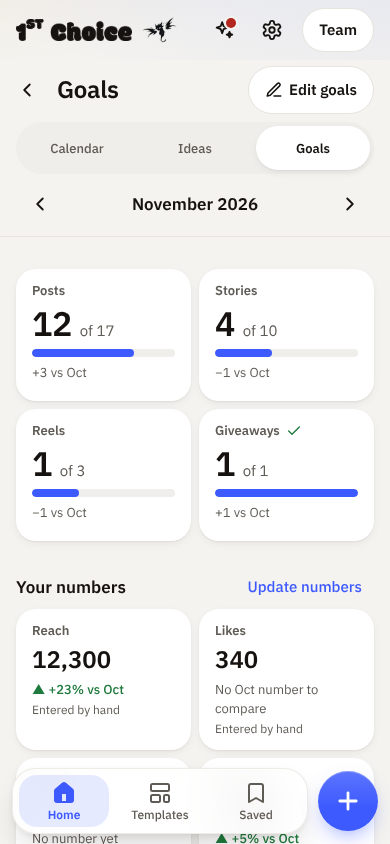
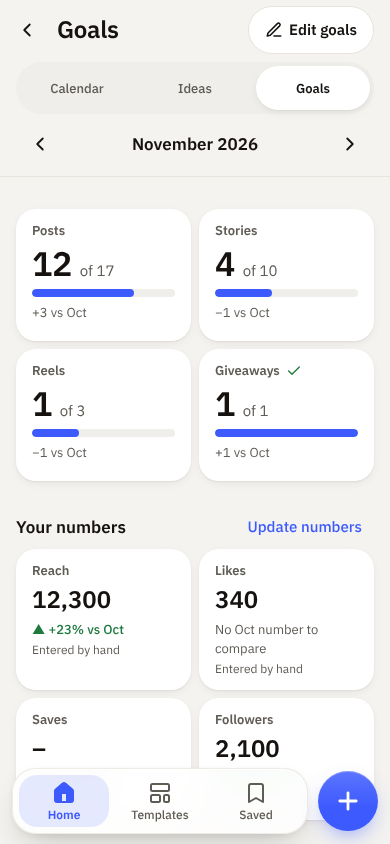
Studio 2.5.1: no flicker (Home calendar row, Plan pages redraw only on change), Ideas/Goals/+Idea fit one row, Plan tabs stay fixed (fade only, top bar hidden on all three), phone Back asks Update on saved designs, Create Save sheet slides up
Claude-Session: https://claude.ai/code/session_01Y65H7WvsiftBMGVkA7A4Ec

diff --git a/assets/studio.js b/assets/studio.js
@@ -13,7 +13,7 @@ const PHOTO_MAX_PX=12e6; // a photo is kept at full quality up to 12 megapixels 
 const LS_OK=(()=>{ try{ return 'letterSpacing' in document.createElement('canvas').getContext('2d'); }catch(_){ return false; } })();
 const PIN=new Path2D("M128 16a88.1 88.1 0 0 0-88 88c0 75.3 80 132.17 83.41 134.55a8 8 0 0 0 9.18 0C136 236.17 216 179.3 216 104a88.1 88.1 0 0 0-88-88Zm0 56a32 32 0 1 1-32 32a32 32 0 0 1 32-32Z");
 /* Studio's version: semantic (fix = 0.1.1, feature = 0.2.0). The What's New page (whats-new.html) shows the notes from studio-notes/changelog.md. */
-const VERSION='2.5.0';
+const VERSION='2.5.1';
 const ROOT=(document.currentScript&&document.currentScript.src)?document.currentScript.src.replace(/assets\/studio\.js.*$/,''):'../';
 const BRANDS={};
 /* installable app: the service worker caches the app shell (never Supabase calls) */
@@ -1544,7 +1544,7 @@ async function tool(cfg){
     hist.stack=hist.stack.slice(0,hist.i+1); hist.stack.push(s); if(hist.stack.length>80) hist.stack.shift(); hist.i=hist.stack.length-1;
     syncUndo(); saveDraft(s); designChanged();
   }
-  function designChanged(){ quickReady=false; if(saving) return;
+  function designChanged(){ quickReady=false; setTimeout(guardSync,0); if(saving) return;
     if($('teamOnly').dataset.off==='1'&&design){ resetSaveSheet(); return; }   // 2.5.0: an edit after a team save: the card (computer) is back on Phone + Team, Update “name” (it used to fall back to My phone, so the next Save made only a picture)
     if(imgDone){ imgDone=false; syncSaveOpts(); } }   // an edit after saving: the next Save makes a new picture
   /* Undo / Redo keep the chosen layer chosen when it is still there (1.21.0: before, the layer bar stayed open on a layer that
@@ -1835,7 +1835,12 @@ async function tool(cfg){
   /* ---- a saved design you're editing: changes are tracked so leaving can ask Update / Discard ---- */
   let baseJson=null;
   const curJson=()=>{ const r=recipe(); delete r.page; return JSON.stringify(r)+'|'+S.photos.map(p=>p.path||p.key||'').join(','); };
-  function markSaved(){ baseJson=curJson(); }
+  function markSaved(){ baseJson=curJson(); guardSync(); }
+  /* 2.5.0 (owner): the phone's Back on a changed saved design opens the Update / Discard prompt, not the browser's "Leave site?" */
+  let leaveGuard=false;
+  function guardSync(){ const d=!RENDER_FRAME&&designDirty(); if(d===leaveGuard) return; leaveGuard=d;
+    if(d) NAV.push('tool-leave',()=>{ if(!designDirty()){ leaveGuard=false; return; } leaveGuard=false; const dl=leavePrompt(ROOT+'index.html'); if(dl) dl.addEventListener('close',()=>setTimeout(guardSync,400)); });
+    else NAV.drop('tool-leave'); }
   const designDirty=()=>!!design&&baseJson!==null&&curJson()!==baseJson;
   function leavePrompt(href){
     const d=dialog(`<div class="dlg-body"><h3 dir="auto">Save your changes to “${esc(design.name)}”?</h3><p class="small">You changed this saved design. Update it for the team, or leave it as it was.</p>
@@ -1845,6 +1850,7 @@ async function tool(cfg){
     d.querySelector('#lvDis').onclick=()=>{ baseJson=curJson(); leaving=true; location.href=href; };
     d.querySelector('#lvUpd').onclick=async()=>{ d.querySelectorAll('button').forEach(b=>b.disabled=true); d.querySelector('#lvSt').textContent='Updating…';
       try{ await teamSave({name:design.name,keepCols:true}); leaving=true; location.href=href; }catch(err){ d.querySelector('#lvSt').textContent=teamErr(err); d.querySelectorAll('button').forEach(b=>b.disabled=false); } };
+    return d;
   }
   let leaving=false;
   /* a link tapped while the team save is still running waits for it (a few seconds), then goes */
@@ -2830,6 +2836,7 @@ async function home(){
   const fv=$('footVer'); if(fv) fv.textContent='Studio '+VERSION;
   const ft=$('footDev'); if(ft) ft.textContent=devWord();
   /* a friendly line above the title, by the time of day on this phone */
+  document.body.classList.add('hub-first'); setTimeout(()=>document.body.classList.remove('hub-first'),1500);   /* 2.5.0: the look preview's rise-in runs once, when Studio opens */
   const hello=$('hello'); if(hello){ const hr=new Date().getHours(); hello.textContent=hr>=5&&hr<12?'Good morning':hr>=12&&hr<17?'Good afternoon':'Good evening';
     const dt=document.createElement('span'); dt.className='hello-date'; dt.textContent=new Date().toLocaleDateString('en-GB',{weekday:'long',day:'numeric',month:'short'}); hello.append(dt); }   /* the date shows with the 'look' preview */
   /* two places: Home, and the Saved page (#saved: its own history entry, so the phone's Back button returns home).
@@ -2926,13 +2933,17 @@ async function home(){
     if(!row.dataset.wired){ row.dataset.wired='1'; row.addEventListener('click',e=>{ if(e.target.closest('.cal-home-row')){ haptic('tick'); calOpen(true); } }); }
     return row; }
   /* swap one piece only when it changed, with a soft fade (never a jump: the box keeps its size) */
-  const swapIn=(old,html,where,parent)=>{ if(old&&old.outerHTML===html) return; const t=document.createElement('div'); t.innerHTML=html; const el=t.firstElementChild;
-    if(old){ old.replaceWith(el); if(!reduce()) el.classList.add('hs-in'); } else parent.insertAdjacentElement(where,el); };
+  /* compared by the HTML it was made from (data-h), never by outerHTML: the fade class made every refresh look "changed", so the row faded again and again (owner: "the calendar flickers") */
+  const swapIn=(old,html,where,parent)=>{ if(old&&old.dataset.h===html) return; const t=document.createElement('div'); t.innerHTML=html; const el=t.firstElementChild; el.dataset.h=html;
+    const fade=old&&!old.classList.contains('hs-skel')?false:!reduce();   // only the first fill (placeholder → content) fades; later changes just change
+    if(old) old.replaceWith(el); else parent.insertAdjacentElement(where,el);
+    if(fade&&old){ el.classList.add('hs-in'); el.addEventListener('animationend',()=>el.classList.remove('hs-in'),{once:true}); } };
   function paintCalRow(row,list){ const t=list&&list[0], more=list&&list.length>1?' +'+(list.length-1)+' more':'';
     swapIn(row.querySelector('.cal-home-row'),`<button type="button" class="cal-home-row${t?' today':''}"><svg viewBox="0 0 24 24" fill="none" stroke="currentColor" stroke-width="2" stroke-linecap="round" stroke-linejoin="round" aria-hidden="true"><rect x="3" y="4.5" width="18" height="16.5" rx="2.5"/><path d="M3 10h18"/><path d="M8 2.5v4"/><path d="M16 2.5v4"/></svg><span class="ch-txt"><b dir="auto">${t?'Posting today: '+esc(t.title||'Untitled')+esc(more):'Calendar'}</b><small>${t?(t.at?'<bdi>'+esc(nxTime(t.at))+'</bdi> · ':'')+'Open the calendar':'Plan and see your team’s posts'}</small></span></button>`,'afterbegin',row); }
   function paintMini(row,inbox,goal){ if(!PLAN_ON) return; let mini=row.querySelector('.plan-mini'); if(!mini){ mini=document.createElement('div'); mini.className='plan-mini'; row.appendChild(mini); }
-    const html=`<button type="button" class="plan-chip" data-plan-go="ideas">${IDEA_SVG}<span>Ideas${inbox?` <em><bdi>${inbox}</bdi> new</em>`:''}</span></button><button type="button" class="plan-chip" data-plan-go="goals">${GOAL_SVG}<span>Goals${goal?` <em><bdi>${goal}</bdi></em>`:''}</span></button><button type="button" class="plan-chip plan-add" data-new-idea aria-label="New idea">${ICON.plus}<span>Idea</span></button>`;
-    if(mini.dataset.h===html) return; const first=!mini.dataset.h; mini.dataset.h=html; mini.innerHTML=html; if(!first&&!reduce()){ mini.classList.remove('hs-in'); void mini.offsetWidth; mini.classList.add('hs-in'); } }
+    /* 2.5.0 (owner: no sideways scroll): three equal tiles that always fit; the count sits on a small second line */
+    const html=`<button type="button" class="plan-chip" data-plan-go="ideas">${IDEA_SVG}<span class="pc-t"><b>Ideas</b>${inbox?`<em><bdi>${inbox}</bdi> new</em>`:''}</span></button><button type="button" class="plan-chip" data-plan-go="goals">${GOAL_SVG}<span class="pc-t"><b>Goals</b>${goal?`<em><bdi>${goal}</bdi></em>`:''}</span></button><button type="button" class="plan-chip plan-add" data-new-idea aria-label="New idea">${ICON.plus}<span class="pc-t"><b>Idea</b></span></button>`;
+    if(mini.dataset.h===html) return; mini.dataset.h=html; mini.innerHTML=html; }
   async function calHome(){
     if(!$('homeView')) return; const row=calRowEl(); if(!row) return;
     const now=new Date(), k=dayKey(now), m=k.slice(0,7);

diff --git a/assets/studio.css b/assets/studio.css
@@ -1436,7 +1436,7 @@ input[type=range]{min-height:44px}
 .pack-banner .pb-x:active{background:var(--line)}
 @media (max-width:420px){.pack-banner{flex-wrap:wrap;padding-inline-start:14px}.pack-banner .pb-txt{order:1;flex:1 1 calc(100% - 60px)}.pack-banner .pb-x{order:2}.pack-banner .pb-go{order:3;flex:1 1 100%}}
 /* calendar (mega): no new-design button on the calendar page; the calendar's own styles are in assets/calendar.css */
-body.on-calendar nav.top{display:none}
+body.on-calendar nav.top,body.on-plan nav.top{display:none}   /* 2.5.0: the same on Calendar, Ideas and Goals, so switching never moves the page */
 body.hub.on-calendar{background:var(--bg)}
 body.on-calendar .fab{display:none}
 
@@ -1566,17 +1566,12 @@ body.on-plan .fab{view-transition-name:hubfab}
 ::view-transition-group(plan-pill){animation-duration:.34s;animation-timing-function:cubic-bezier(.3,1.25,.5,1)}
 ::view-transition-old(plan-pill),::view-transition-new(plan-pill){animation:none;mix-blend-mode:normal;height:100%}
 ::view-transition-old(plan-tabs),::view-transition-new(plan-tabs),::view-transition-old(hubbar),::view-transition-new(hubbar),::view-transition-old(hubfab),::view-transition-new(hubfab){animation:none}
-:root[data-plan-dir="fwd"]::view-transition-old(root){animation:plan-out-l .22s var(--ease) both}
-:root[data-plan-dir="fwd"]::view-transition-new(root){animation:plan-in-r .34s var(--ease) both}
-:root[data-plan-dir="back"]::view-transition-old(root){animation:plan-out-r .22s var(--ease) both}
-:root[data-plan-dir="back"]::view-transition-new(root){animation:plan-in-l .34s var(--ease) both}
-@keyframes plan-out-l{to{opacity:0;transform:translateX(-28px)}}
-@keyframes plan-out-r{to{opacity:0;transform:translateX(28px)}}
-@keyframes plan-in-r{from{opacity:0;transform:translateX(36px)}}
-@keyframes plan-in-l{from{opacity:0;transform:translateX(-36px)}}
-/* no View Transitions: the new page's content slides in (the tabs stay put) */
-:root[data-plan-dir="fwd"] .cal-view.plan-in>:not(.plan-tabs){animation:plan-in-r .32s var(--ease) both}
-:root[data-plan-dir="back"] .cal-view.plan-in>:not(.plan-tabs){animation:plan-in-l .32s var(--ease) both}
+:root[data-plan-dir]::view-transition-old(root){animation:plan-fade-out .14s ease-out both}
+:root[data-plan-dir]::view-transition-new(root){animation:plan-fade-in .2s ease-out both}
+@keyframes plan-fade-out{to{opacity:0}}
+@keyframes plan-fade-in{from{opacity:0}}
+/* (owner, 2.5.0: the bar and the page stay where they are; only the pill slides and the content softly changes) */
+:root[data-plan-dir] .cal-view.plan-in>:not(.plan-tabs){animation:plan-fade-in .2s ease-out both}
 @media (prefers-reduced-motion: reduce){.cal-view.plan-in>*{animation:none!important}}
 
 /* ===== 2.5.0 preview 'look' (Settings → Previews → New look and motion; off by default, everything scoped to :root[data-look2]) =====
@@ -1594,10 +1589,10 @@ body.on-plan .fab{view-transition-name:hubfab}
 @keyframes lk-drift{0%{transform:translate3d(0,0,0) rotate(0)}50%{transform:translate3d(5vmax,-4vmax,0) rotate(9deg)}100%{transform:translate3d(-4vmax,3vmax,0) rotate(-7deg)}}
 :root[data-look2] .hero .hello{display:flex;align-items:center;gap:8px;flex-wrap:wrap}
 :root[data-look2] .hello-date{display:inline-flex;align-items:center;min-height:24px;padding:0 10px;border-radius:var(--r-pill);background:color-mix(in srgb,var(--surface) 70%,transparent);border:1px solid var(--line);color:var(--muted);font:500 var(--fs-s) var(--sans)}
-:root[data-look2] .hero :is(.hello,h1,.usearch){animation:lk-rise .5s var(--ease) backwards}
+:root[data-look2] body.hub-first .hero :is(.hello,h1,.usearch){animation:lk-rise .5s var(--ease) backwards}
 :root[data-look2] .hero h1{animation-delay:40ms}
 :root[data-look2] .hero .usearch{animation-delay:80ms}
-:root[data-look2] #homeView>.hub-sec:not([hidden]){animation:lk-rise .5s var(--ease) backwards}
+:root[data-look2] body.hub-first #homeView>.hub-sec:not([hidden]){animation:lk-rise .5s var(--ease) backwards}   /* only when Studio opens, never again on the way back to Home */
 :root[data-look2] #homeView>.hub-sec:nth-of-type(2){animation-delay:90ms}
 :root[data-look2] #homeView>.hub-sec:nth-of-type(3){animation-delay:130ms}
 :root[data-look2] #homeView>.hub-sec:nth-of-type(4){animation-delay:170ms}
@@ -1608,5 +1603,14 @@ body.on-plan .fab{view-transition-name:hubfab}
 @media (hover:hover){:root[data-look2] :is(.tool-row,.cal-home-row,.tp-card):hover{box-shadow:0 10px 24px -14px rgba(28,22,16,.35)}}
 :root[data-look2] .cal-home-row.today{background:linear-gradient(90deg,color-mix(in srgb,var(--accent) 10%,var(--surface)),var(--surface) 70%)}
 :root[data-look2] .cal-home-row.today svg{color:var(--accent)}
-:root[data-look2] .cal-view>*{animation:lk-rise .4s var(--ease) backwards}
-@media (prefers-reduced-motion: reduce){:root[data-look2] body:is(.hub,.wn)::before{animation:none}:root[data-look2] :is(.hero .hello,.hero h1,.hero .usearch,#homeView>.hub-sec,.cal-view>*){animation:none}}
+@media (prefers-reduced-motion: reduce){:root[data-look2] body:is(.hub,.wn)::before{animation:none}:root[data-look2] :is(.hero .hello,.hero h1,.hero .usearch,#homeView>.hub-sec){animation:none}}
+
+/* ===== 2.5.0 (owner): Ideas · Goals · + Idea on Home always fit in one row (three equal tiles, no sideways scroll) ===== */
+.plan-mini{display:grid;grid-template-columns:repeat(3,minmax(0,1fr));gap:8px;overflow:visible}
+.plan-chip{min-width:0;min-height:52px;padding:6px 10px;gap:8px;justify-content:flex-start}
+.plan-chip .pc-t{display:flex;flex-direction:column;align-items:flex-start;min-width:0;line-height:1.2}
+.plan-chip .pc-t b{font-weight:600}
+.plan-chip .pc-t :is(b,em){max-width:100%;overflow:hidden;text-overflow:ellipsis;white-space:nowrap}
+.plan-chip .pc-t em{font-size:var(--fs-s)}
+.plan-chip.plan-add{margin-inline-start:0;justify-content:center}
+.plan-chip.hs-chip,.plan-chip.hs-chip.hs-end{width:auto;margin-inline-start:0}

diff --git a/tools/create.js b/tools/create.js
@@ -571,14 +571,20 @@ async function teamSave1(o){ o=o||{};
 const curJson=()=>{ const d=JSON.parse(BD.docJson()); delete d.name; return JSON.stringify(d); };
 function markSaved(){ st.base=curJson(); }
 const designDirty=()=>!!st.design&&st.base!=null&&curJson()!==st.base;
-function syncSaved(){ $('crSaved').textContent=st.design?(designDirty()?'Not saved to the team':(st.design.kind==='template'?'Team template':'Saved to the team')):''; }
+/* 2.5.0 (owner): the phone's Back on a changed saved design asks "Update or discard?" (our prompt) instead of the browser's "Leave site?".
+   While the design has unsaved changes it holds one back-stack entry (Studio.nav); Back opens the prompt and stays on the page. */
+let leaveGuard=false;
+function guardSync(){ const d=designDirty()&&!RENDER; if(d===leaveGuard||!Studio.nav) return; leaveGuard=d;
+  if(d) Studio.nav.push('cr-leave',()=>{ if(!designDirty()){ leaveGuard=false; return; } leaveGuard=false; const dl=leavePrompt(document.querySelector('.cr-back').href); if(dl) dl.addEventListener('close',()=>setTimeout(guardSync,400)); });
+  else Studio.nav.drop('cr-leave'); }
+function syncSaved(){ guardSync(); $('crSaved').textContent=st.design?(designDirty()?'Not saved to the team':(st.design.kind==='template'?'Team template':'Saved to the team')):''; }
 function leavePrompt(href){ const d=L.dialog(`<div class="dlg-body"><h3 dir="auto">Save your changes to “${esc(st.design.name)}”?</h3><p class="small">You changed this saved design. Update it for the team, or leave it as it was.</p>
     <div class="status" id="lvSt" role="status"></div>
     <div class="dlg-actions col"><button type="button" class="btn" id="lvUpd">Update “${esc(st.design.name)}”</button><button type="button" class="btn ghost" id="lvDis">Discard changes</button><button type="button" class="link" id="lvKeep">Keep editing</button></div></div>`);
   d.querySelector('#lvKeep').onclick=()=>d.close();
   d.querySelector('#lvDis').onclick=()=>{ st.leaving=true; location.href=href; };
   d.querySelector('#lvUpd').onclick=async()=>{ d.querySelectorAll('button').forEach(b=>b.disabled=true); d.querySelector('#lvSt').textContent='Updating…';
-    try{ await teamSave({name:st.design.name,kind:st.design.kind,keepCols:true}); st.leaving=true; location.href=href; }catch(err){ d.querySelector('#lvSt').textContent=err.message; d.querySelectorAll('button').forEach(b=>b.disabled=false); } }; }
+    try{ await teamSave({name:st.design.name,kind:st.design.kind,keepCols:true}); st.leaving=true; location.href=href; }catch(err){ d.querySelector('#lvSt').textContent=err.message; d.querySelectorAll('button').forEach(b=>b.disabled=false); } };  return d; }
 document.querySelector('.cr-back').addEventListener('click',e=>{ if(designDirty()){ e.preventDefault(); leavePrompt(e.currentTarget.href); } else if(S.id) BD.saveNow(); });
 addEventListener('beforeunload',e=>{ if(!st.leaving&&designDirty()){ e.preventDefault(); e.returnValue=''; } });
 addEventListener('pagehide',()=>{ if(S.id&&!st.design) BD.saveNow(); });
@@ -649,7 +655,8 @@ function openSave(){ reopen=null; const fs=frames(); if(!fs.length){ toast('Add 
       <button type="button" class="link" id="crPlan" hidden>Add to calendar</button>
       <a class="link" id="crSeeSaved" href="../index.html#saved" hidden>See it in Saved</a>
     </div></div>`);
-  if(many) fs.forEach(f=>{ try{ const s=fsize(f), c=BD.renderFrame(f,112/s.w); body.querySelector(`[data-pth="${f.id()}"]`).src=c.toDataURL('image/jpeg',.7); c.width=c.height=0; }catch(_){} });
+  /* 2.5.0: the page pictures are drawn after the sheet has slid up, one per frame (drawing 7 at once blocked the slide-in) */
+  if(many){ let k=0; const next=()=>{ if(k>=fs.length||!sheet||sheet.name!=='save') return; const f=fs[k++]; try{ const s=fsize(f), c=BD.renderFrame(f,112/s.w), im=body.querySelector(`[data-pth="${f.id()}"]`); if(im) im.src=c.toDataURL('image/jpeg',.7); c.width=c.height=0; }catch(_){} requestAnimationFrame(next); }; setTimeout(next,280); }
   const hasPhotos=usedImgs(JSON.parse(BD.docJson())).length>0; $('crKeep').checked=hasPhotos; $('crKeep').disabled=!hasPhotos; if(st.design&&!isTplOpen()) $('crTeamOn').checked=true;   // r3-save: a new design starts on My phone; an opened saved design starts on Phone + Team (Update)
   $('crTName').value=st.design?st.design.name:defaultName();
   const picked=new Set(st.design&&!isTplOpen()?(st.design.collections||[]).filter(Boolean):[]); let teamCols=null, needHint=false;

diff --git a/assets/ideas.js b/assets/ideas.js
@@ -39,7 +39,7 @@ function make(o){
   const root=o.root, esc=o.esc, ic=k=>(o.icons&&o.icons[k])||'', hap=k=>{ try{ o.haptic&&o.haptic(k); }catch(_){} };
   const rd=k=>{ try{ return o.store?o.store(k):null; }catch(_){ return null; } }, wr=(k,v)=>{ try{ o.store&&o.store(k,v); }catch(_){} };
   const wide=()=>matchMedia('(min-width:821px)').matches;
-  let C=null, items=[], designs=[], cal={}, urls={}, state='loading', note='', run=0, slowT=0, built=false;
+  let lastSig='', C=null, items=[], designs=[], cal={}, urls={}, state='loading', note='', run=0, slowT=0, built=false;
   let tab=rd('studio:ideasTab')==='board'?'board':'inbox', stage='idea', typeF='', q='', searchOpen=false, wasWide=wide();
   const authorName=()=>{ try{ return (o.who&&o.who.author&&o.who.author())||null; }catch(_){ return null; } };
   const designOf=id=>designs.find(d=>d.id===id);
@@ -60,7 +60,9 @@ function make(o){
       const [list,dl,cl]=await Promise.all([C.ideas(o.brand),Promise.resolve(o.designs?o.designs():[]).catch(()=>designs),C.calendar?C.calendar(o.brand,{from:from,to:to}).catch(()=>[]):[]]); if(my!==run) return;
       designs=dl||[]; cal={}; (cl||[]).forEach(x=>{ cal[x.id]=x; });
       const live=new Set(list.map(x=>x.id)), keepP=items.filter(x=>x._pending&&!live.has(x.id));
-      items=keepP.concat(list); state='ok'; drawTop(); drawBody(); thumbsFor(items);
+      items=keepP.concat(list);
+      const sig=JSON.stringify([items,designs.map(d=>d.id+d.updated_at),cl]), same=state==='ok'&&sig===lastSig; lastSig=sig;   /* 2.5.0: no redraw when nothing changed (no flicker) */
+      state='ok'; if(!same){ drawTop(); drawBody(); thumbsFor(items); }
     }catch(err){ if(my!==run) return; const net=o.netDown(err), slow=net&&/slow/i.test(err.message||'');
       if(state==='ok'){ o.toast(net?'You’re offline. These are your ideas from before.':'Could not refresh the ideas: '+(err.message||err)); return; }
       state=net?(slow?'slow':'offline'):'error'; note=err.message||String(err); drawBody(); }
@@ -388,9 +390,9 @@ function make(o){
   matchMedia('(min-width:821px)').addEventListener('change',()=>{ if(wide()!==wasWide){ wasWide=wide(); if(built&&state==='ok') drawBody(); } });
 
   return {
-    show(){ built=true; stopAudio(); build(); drawBody();
+    show(){ const again=built&&state==='ok'&&root.querySelector('.id-content'); built=true; stopAudio(); if(!again){ lastSig=''; build(); drawBody(); }   /* 2.5.0: coming back keeps the page on screen (no rebuild flash) */
       /* opens on the Inbox when it has ideas (unless the board was the last choice), else the Board */
-      load().then(()=>{ if(state==='ok'&&rd('studio:ideasTab')!=='board'&&inbox().length) tab='inbox'; else if(state==='ok'&&!inbox().length&&tab==='inbox') tab='board'; if(state==='ok'){ drawTop(); drawBody(); } });
+      const t0=tab; load().then(()=>{ if(state==='ok'&&rd('studio:ideasTab')!=='board'&&inbox().length) tab='inbox'; else if(state==='ok'&&!inbox().length&&tab==='inbox') tab='board'; if(state==='ok'&&(!again||tab!==t0)){ drawTop(); drawBody(); } });
       const h=root.querySelector('#idH'); if(h) h.focus({preventScroll:true}); },
     refresh(){ if(built) load(); },
     capture,

diff --git a/assets/calendar.js b/assets/calendar.js
@@ -124,7 +124,7 @@ function make(o){
   const wide=()=>matchMedia('(min-width:821px)').matches;
   let C=null, mode=(['week','month'].includes(rd('studio:calMode'))?rd('studio:calMode'):(wide()?'month':'week')), anchor=new Date();
   let camps=[];   /* campaigns (mega w2): the name shows on an item that belongs to one */
-  let items=[], designs=[], designsFail=false, urls={}, state='loading', note='', run=0, slowT=0, built=false, toToday=false;
+  let lastSig='', items=[], designs=[], designsFail=false, urls={}, state='loading', note='', run=0, slowT=0, built=false, toToday=false;
   const range=()=>{ if(mode==='week'){ const s=weekStart(anchor); return [s,addDays(s,6)]; }
     const f=new Date(anchor.getFullYear(),anchor.getMonth(),1), s=weekStart(f); return [s,addDays(s,41)]; };
   const designOf=id=>designs.find(d=>d.id===id);
@@ -150,7 +150,9 @@ function make(o){
       const [list,dl]=await Promise.all([C.calendar(o.brand,{from:iso(a),to:iso(b)}),C.designs?C.designs(o.brand).then(r=>{ designsFail=false; return r; },()=>{ designsFail=true; return designs; }):designs]); if(my!==run) return;
       designs=dl||[]; try{ camps=C.campaigns?(await C.campaigns(o.brand))||[]:[]; }catch(_){ camps=[]; }   /* campaigns (mega w2) */
       const lg=legacyItems(o.brand).filter(x=>x.day>=iso(a)&&x.day<=iso(b));
-      items=list.map(x=>({...x,at:hhmm(x.at)||null,hashtags:x.hashtags||[],design_ids:x.design_ids||[]})).concat(lg); state='ok'; draw();
+      items=list.map(x=>({...x,at:hhmm(x.at)||null,hashtags:x.hashtags||[],design_ids:x.design_ids||[]})).concat(lg);
+      /* 2.5.0 (owner: "it flickers like it refreshes"): redraw only when something changed since what is on screen */
+      const sig=JSON.stringify([iso(a),iso(b),mode,items,designs.map(d=>d.id+d.updated_at)]); const same=state==='ok'&&sig===lastSig; lastSig=sig; state='ok'; if(!same) draw();
       if(toToday){ toToday=false; const t=root.querySelector('.cal-day.today'); if(t&&!wide()) t.scrollIntoView({block:'start'}); }
       const need=[...new Set(items.flatMap(x=>x.design_ids).map(designOf).filter(Boolean).map(d=>d.thumb_path).filter(p=>p&&!urls[p]))];
       if(need.length) C.fileUrls(need).then(u=>{ Object.assign(urls,u); fillThumbs(); }).catch(()=>{});
@@ -333,7 +335,7 @@ function make(o){
 
   return {
     get mode(){ return mode; },
-    show(opt){ opt=opt||{}; if(opt.today){ anchor=new Date(); toToday=true; } built=true; draw(); load();
+    show(opt){ opt=opt||{}; if(opt.today){ anchor=new Date(); toToday=true; } const again=built&&state==='ok'&&!opt.today; built=true; if(!again){ lastSig=''; draw(); } load();   /* 2.5.0: coming back shows the page as it was, then refreshes only what changed */
       const h=root.querySelector('#calH'); if(h) h.focus({preventScroll:true}); },
     refresh(){ if(built) load(); },
     get items(){ return items; }

diff --git a/assets/kpis.js b/assets/kpis.js
@@ -19,7 +19,7 @@ function init(o){
   if(!document.getElementById('lz-calendar')){ const mine=document.querySelector('link[href*="kpis.css"]'), l=document.createElement('link'); l.id='lz-calendar'; l.rel='stylesheet';
     l.href=mine?mine.getAttribute('href').replace('kpis.css','calendar.css'):'assets/calendar.css'; document.head.appendChild(l); }
   const root=o.root, esc=o.esc, ic=k=>(o.icons&&o.icons[k])||'';
-  let boots=0, C=null, state='loading', note='', run=0, slowT=0, built=false;
+  let lastSig='', boots=0, C=null, state='loading', note='', run=0, slowT=0, built=false;
   let month=nowKey(), chartKey='post';
   let cal=[], ideas=[], rows={};   // rows by month key
   const Lm=(k,opt)=>mdate(k).toLocaleDateString('en',opt);
@@ -45,7 +45,8 @@ function init(o){
         (C.ideas?Promise.resolve().then(()=>C.ideas(o.brand)).catch(()=>[]):Promise.resolve([]))]);
       if(my!==run) return;
       cal=list||[]; ideas=idl||[]; rows={}; (km||[]).forEach(r=>{ rows[r.month]=r; });
-      state='ok'; draw();
+      const sig=JSON.stringify([month,cal,ideas.length,rows]), same=state==='ok'&&sig===lastSig; lastSig=sig;   /* 2.5.0: no redraw when nothing changed (no flicker) */
+      state='ok'; if(!same) draw();
     }catch(err){ if(my!==run) return;
       if(err&&err.name==='ReferenceError'&&boots++<5){ setTimeout(()=>{ if(my===run) load(); },400); return; }   /* opened by #goals before studio.js finished starting */
       const net=o.netDown(err), slow=net&&/slow/i.test(err.message||'');
@@ -183,7 +184,7 @@ function init(o){
     if((b=t.closest('[data-kp-chart]'))){ chartKey=b.dataset.kpChart; wr('studio:goalsChart',chartKey); draw(); const nb=root.querySelector('[data-kp-chart="'+chartKey+'"]'); nb&&nb.focus(); } });
 
   return {
-    show(){ built=true; try{ const s=o.store('studio:goalsChart'); if(CHART.some(c=>c[0]===s)) chartKey=s; }catch(_){} draw(); load(); },
+    show(){ const again=built&&state==='ok'; built=true; try{ const s=o.store('studio:goalsChart'); if(CHART.some(c=>c[0]===s)) chartKey=s; }catch(_){} if(!again){ lastSig=''; draw(); } load(); },
     refresh(){ if(built) load(); }
   };
 }

diff --git a/tools/create.css b/tools/create.css
@@ -58,7 +58,7 @@ body.cr input,body.cr textarea{user-select:text;-webkit-user-select:text}
 /* sheets */
 .cr-scrim{position:fixed;inset:0;background:var(--scrim);z-index:60;animation:crfade .18s ease}
 .cr-scrim[hidden],.cr-sheet[hidden]{display:none}
-.cr-sheet{position:fixed;z-index:61;background:var(--surface);color:var(--fg);display:flex;flex-direction:column;min-height:0;left:0;right:0;bottom:0;max-height:min(88dvh,900px);border-radius:24px 24px 0 0;border-top:1px solid var(--line);box-shadow:var(--shadow-up);padding:0 var(--safe-r) var(--safe-b) var(--safe-l);animation:crup .24s var(--ease)}
+.cr-sheet{position:fixed;z-index:61;background:var(--surface);color:var(--fg);display:flex;flex-direction:column;min-height:0;left:0;right:0;bottom:0;max-height:min(88dvh,900px);border-radius:24px 24px 0 0;border-top:1px solid var(--line);box-shadow:var(--shadow-up);padding:0 var(--safe-r) var(--safe-b) var(--safe-l);animation:crup .32s cubic-bezier(.2,.9,.25,1)}
 .cr-sheet.tool{z-index:30;bottom:calc(var(--crbar) + var(--ctx-h) + var(--safe-b));max-height:min(46dvh,420px);padding-bottom:0;box-shadow:0 -8px 24px rgba(0,0,0,.10)}
 .cr-sh-head{display:flex;align-items:center;gap:8px;padding:16px 16px 8px;flex:none;position:relative}
 .cr-sh-head .grab{position:absolute;top:6px;left:50%;width:36px;height:4px;margin-left:-18px;border-radius:2px;background:var(--line)}
@@ -70,7 +70,7 @@ body.cr input,body.cr textarea{user-select:text;-webkit-user-select:text}
 .cr-sh-body .lbl{font:600 11px var(--sans);text-transform:uppercase;letter-spacing:.07em;color:var(--muted)}
 .cr-sh-body .small{font-size:12.5px;color:var(--muted);line-height:1.45;margin:0}
 @keyframes crfade{from{opacity:0}}
-@keyframes crup{from{transform:translateY(40px);opacity:.4}}
+@keyframes crup{from{transform:translateY(100%)}}
 
 /* controls inside sheets */
 .cr-row{display:flex;align-items:center;gap:10px;flex-wrap:wrap}

diff --git a/sw.js b/sw.js
@@ -5,7 +5,7 @@
    - Supabase (sign-in, saved designs, team photos) is NEVER cached: those requests go straight to the network.
    - Share target (Android, installed app): photos shared from the gallery arrive as a POST to ./share-target; they wait in
      IndexedDB ('studio' › 'files' › 'studio:shared', the same store studio.js uses) and the hub opens a "pick a tool" sheet. */
-const VERSION='studio-v2-5-0';   // Studio 2.5.0
+const VERSION='studio-v2-5-1';   // Studio 2.5.1
 const SHELL=[
   './','index.html','manifest.webmanifest','whats-new.html','assets/whatsnew.css','assets/whatsnew.js','studio-notes/changelog.md',
   'assets/studio.css','assets/studio.js','assets/search.css','assets/search.js','assets/templates.css','assets/templates.js','assets/batch.js','assets/stickers.js','assets/welcome.css','assets/welcome.js','assets/cloud.js','assets/config.js','assets/vendor/supabase.js',

diff --git a/.claude/skills/studio-improver/SKILL.md b/.claude/skills/studio-improver/SKILL.md
@@ -106,6 +106,7 @@ Everything else in this skill can be rewritten by the skill itself.
   - **Preview `look`** (FLAGS, off): every rule under `:root[data-look2]` at the end of studio.css; set in `<head>` of index.html / whats-new.html and by `lookSync()`.
   - **What's New** (rebuilt by a builder): hero card for the newest version, older versions closed (blocks of five, one row per version), changes grouped New / Improved / Fixed (`type: improve` is new, `design` counts as Improved), one line per change that expands to the note, flag switches and shots, a 44px thumbnail when a change has a picture, `#v-<version>` deep links.
   - **Moving stories:** Auto runs when the sheet opens on a page with no motion (open + Save video).
+  - **2.5.1 owner fixes (same day):** (1) Never compare a swapped element by `outerHTML` after adding a class to it (the fade class made every refresh "different": the Home Calendar row faded on each load = flicker); keep the source HTML in `data-h`. (2) Plan modules (`calendar.js`, `ideas.js`, `kpis.js`) keep their page when shown again and redraw after `load()` only when a data signature (`lastSig`) changed: a full `innerHTML` redraw on every visit was the "page refreshes" flash. (3) Owner rejected the sliding/resizing plan switch: the tab bar and page stay fixed, only the pill slides and content cross-fades (opacity only); `nav.top` is hidden on all three plan views (it was hidden on Calendar only, so the page jumped). Never animate whole-page translate between sibling tabs. (4) Entrance animations in the look preview run only on first open (`body.hub-first`), never when a hidden view is shown again (display:none → block restarts CSS animations). (5) Phone Back on a changed saved design: tool pages (`tool-leave`) and Create (`cr-leave`) hold one `NAV` entry while `designDirty()`; Back opens the app's leave prompt (re-armed when it closes), so the browser's "Leave site?" never shows. (6) Heavy work right after opening a sheet (Create Save drew every page thumbnail synchronously) kills the slide-in and swallows taps: draw after the animation, one per frame. Home's Ideas/Goals/+Idea are a 3-column grid (`.pc-t` two-line labels), never a scroller.
   - Process: 2 sonnet builders in their own worktrees (a test suite, the What's New page) while the lead did the engine work kept merges conflict-free; a builder that only adds a suite is the cheapest way to lock a bug fix.
 - **Model split:** CLAUDE.md asks for routine building to go to a `sonnet` subagent with a precise brief, and lookups/test runs to `haiku` (see **Testing → Who runs the tests**). Give a subagent files that nobody else is editing at the same time.
 

diff --git a/studio-notes/changelog.md b/studio-notes/changelog.md
@@ -13,6 +13,29 @@ The What's New page in Studio (`whats-new.html`) reads this file. Keep the forma
 
 How the page shows it, with no extra work: the newest version is the hero card at the top (version, date, its lead line as the summary, its changes grouped New / Improved / Fixed with an icon heading; if there is no lead line, the card titles are joined instead). So give every version a short plain lead line right under its `##` heading. Older versions are closed rows (version, date, one-line summary, chips such as "3 new · 2 fixed") inside closed blocks of five minor versions (0.1 to 0.5, 0.6 to 0.10 ...; a patch version such as 0.6.1 sits with 0.6); tap a block, then a version, to open it. Each change is one line; the thumbnail at the end of a line means it has a screenshot. `whats-new.html#v-2.3.0` opens that version.
 
+## 2.5.1 · 13 Nov 2026
+Smoother Home and Plan pages, a proper Back on saved designs, and a Save sheet that slides up.
+
+### No more flicker
+type: fix
+The Calendar row on Home no longer flashes, and Calendar, Ideas and Goals stay still when you come back to them: they only change what is new instead of redrawing the whole page.
+
+### Ideas, Goals and + Idea fit in one row
+type: improve
+The three buttons under the Calendar row on Home now share the width evenly, with the count on a small second line, so nothing hides off the edge and there is no sideways scrolling.
+
+### Calendar, Ideas and Goals stay in place
+type: improve
+The tab bar and the page no longer move or resize when you switch: only the highlight slides to the tab you tap and the content softly changes. The top bar is hidden on all three, so the page never jumps and the top no longer looks cut off.
+
+### Back asks to update your saved design
+type: fix
+On a saved design you changed, the phone's Back button now asks **Update “name”**, **Discard changes** or **Keep editing**, the same as the back arrow, instead of the browser's "Leave site?".
+
+### Save sheet slides up
+type: improve
+In Create, the Save sheet slides up smoothly again, even for designs with many pages (the page pictures now draw after it is open), and a tap outside it closes it.
+
 ## 2.5.0 · 12 Nov 2026
 Saving again updates your design instead of making a copy, Home opens in one smooth piece, and the Calendar, Ideas and Goals tabs glide.
 

diff --git a/studio-notes/taste.md b/studio-notes/taste.md
@@ -118,4 +118,5 @@ Counts = separate versions or briefs where the issue was raised. "Exists" = alre
 - Wants smooth animated switching between Calendar, Ideas and Goals; subtle animated backgrounds and polished motion (big look changes behind a preview).
 - Live stock in Restock: not needed (archived). Moving stories and the Claude Design import: explain in plain words, keep only if useful.
 - What's New: hero card for the latest, older versions collapsed, New / Improved / Fixed with icons, one plain line per change.
+- 2.5.1 [S]: flicker on the Home Calendar row and when switching Plan tabs (redraws); a horizontally scrolling chip row is rejected ("make it fixed, no scrolling"); page-wide slide/resize between tabs rejected ("the bar fixed, the content fixed, no animation of resizing the entire page"); the browser's "Leave site?" on Back is wrong (wants the Update prompt); sheets must slide up and close on an outside tap. Checks: `ideas`/`calendar`/`kpis` (no-redraw), `home7-hub`, `nav`.
 
